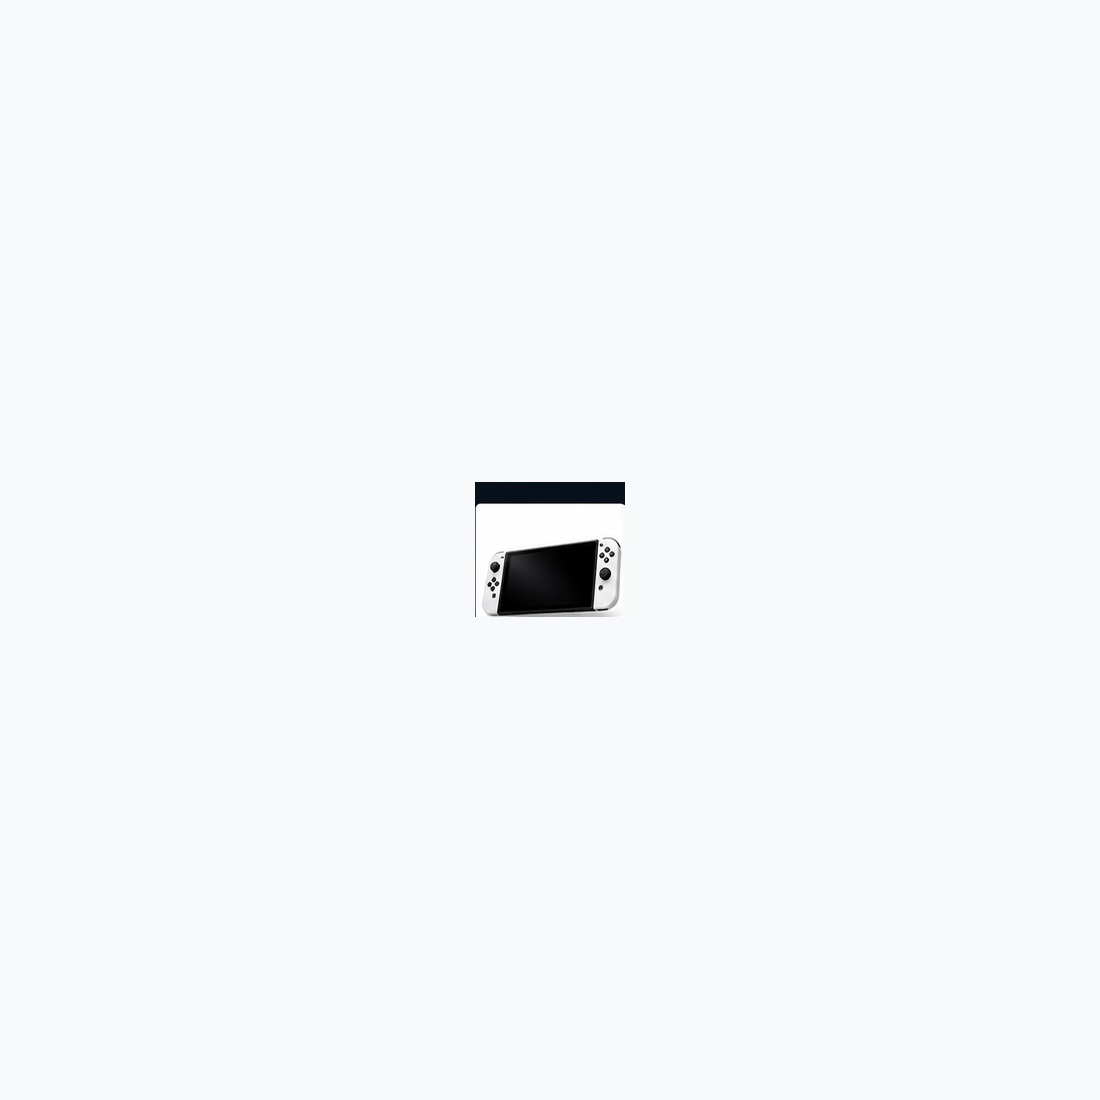
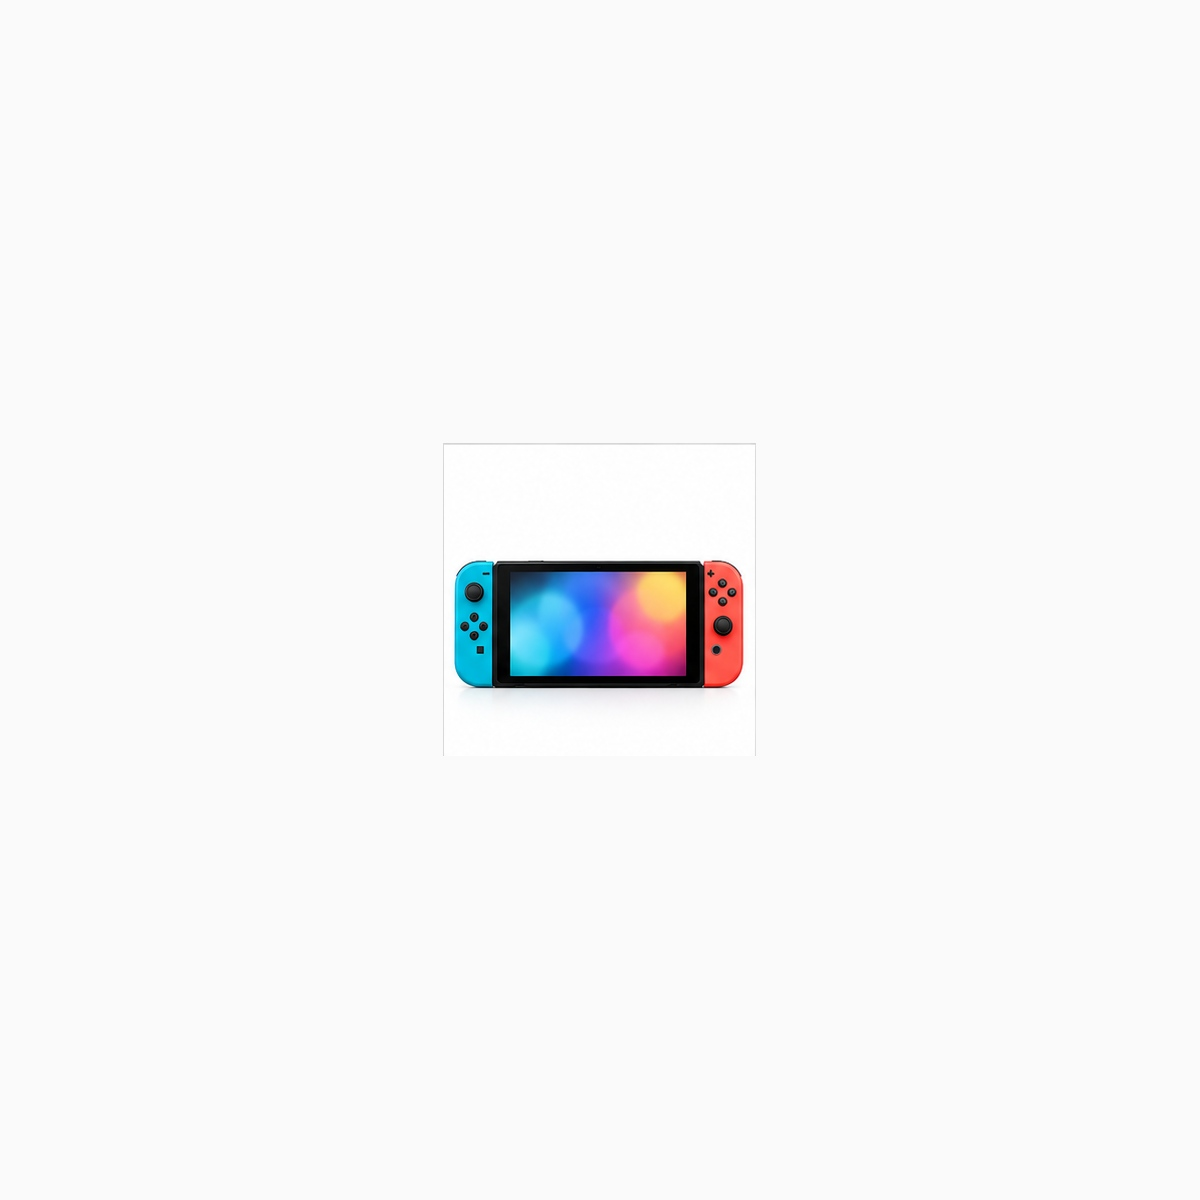
Add files via upload

Changed region(s): [[0.3709, 0.4327, 0.6182, 0.5873]]

diff --git a/style.css b/style.css
@@ -14,3 +14,32 @@
 @media(max-width:1150px){.category-grid{grid-template-columns:repeat(4,1fr)}.product-grid{grid-template-columns:repeat(3,1fr)}.head{grid-template-columns:160px 1fr}.foot-grid{grid-template-columns:repeat(3,1fr)}}
 @media(max-width:760px){.ticker{display:none}.head{grid-template-columns:1fr;justify-items:center}.nav{width:100%;justify-content:flex-start}.tools{justify-content:center}.hero{grid-template-columns:1fr}.hero-copy{padding:45px 8%}.hero h1{font-size:50px}.hero-image{min-height:330px}.category-grid,.collection-grid{grid-template-columns:repeat(2,1fr)}.promo-row{grid-template-columns:1fr}.product-grid{grid-template-columns:repeat(2,1fr)}.section-head{display:block}.setups,.support{display:grid;grid-template-columns:1fr}.setup-image{min-height:330px}.foot-grid{grid-template-columns:1fr 1fr}.detail{grid-template-columns:1fr}.detail-photo,.detail-photo img{height:370px;min-height:370px}}
 @media(max-width:460px){.product-grid{grid-template-columns:1fr 1fr}.category-grid{grid-template-columns:1fr 1fr}.foot-grid{grid-template-columns:1fr}.hero h1{font-size:44px}}
+
+/* V2 IMAGE FIX: square frames + complete, centered product photography */
+.photo,.product-image{
+  width:100%;
+  aspect-ratio:1 / 1;
+  display:flex;
+  align-items:center;
+  justify-content:center;
+  overflow:hidden;
+  background:#f4f6f9;
+}
+.photo img,.product-image img{
+  width:100%;
+  height:100%;
+  display:block;
+  object-fit:contain !important;
+  object-position:center center !important;
+  padding:0 !important;
+}
+.cat img,.category-card img{
+  width:100%;
+  aspect-ratio:1 / 1;
+  height:auto;
+  display:block;
+  object-fit:contain !important;
+  object-position:center center !important;
+  background:#0e1827;
+  padding:0 !important;
+}

diff --git a/README.md b/README.md
@@ -17,3 +17,8 @@ https://apbif-org.github.io/nexora-games/
 
 ## Important
 Product specifications, compatibility, pricing, availability, warranties, policies, and photography rights should be verified before commercial publication.
+
+
+## V2 Image QA
+
+The catalog uses dedicated product-only photography assets. Each product asset is a true square 1200×1200 image, centered and displayed with `object-fit: contain`, so the full product remains visible without cropped UI, prices, ratings, buttons, navigation, or webpage screenshots.
